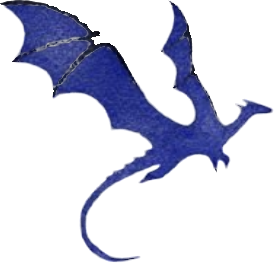
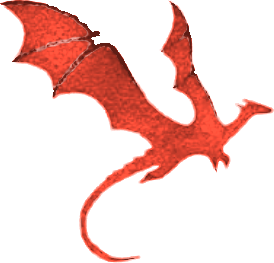
About timeline: the dragon in the site's red

Changed region(s): [[0.0, 0.0, 1.0, 1.0]]

diff --git a/about.html b/about.html
@@ -70,7 +70,7 @@
   @keyframes tl-glide { 50% { transform: translate(3px, -5px) rotate(-3deg); } }
   .tl-item { position: absolute; width: 230px; animation: tl-in .6s ease backwards; }
   .tl-when { display: block; font: 500 11px/1.2 "Geist", sans-serif; letter-spacing: .1em; text-transform: uppercase; color: #6E6879; }
-  .tl-item.is-now .tl-when { color: #3a3fa6; }   /* the dragon's blue */
+  .tl-item.is-now .tl-when { color: #d2412f; }
   .tl-what { display: block; margin-top: 6px; font: 500 16px/1.3 "Geist", sans-serif; color: #141414; }
   .tl-more { display: block; margin-top: 3px; white-space: nowrap; font: 300 13.5px/1.4 "Geist", sans-serif; color: #4f4b57; }
   .tl-note { display: block; margin-top: 6px; font: 15px/1.2 "Grape Nuts", cursive; color: #6E6879; }
@@ -232,7 +232,7 @@
         <path class="tl-path tl-past" pathLength="1" d="M70 512 C160 512 230 496 330 412 S560 190 690 172"/>
         <path class="tl-path tl-next" d="M690 172 S880 158 990 258 S1180 430 1290 446"/>
         <circle class="tl-dot" cx="70" cy="512" r="7"/>
-        <image class="tl-dragon" href="assets/about/dragon.png" x="652" y="134" width="78" height="75"/>
+        <image class="tl-dragon" href="assets/about/dragon.png?v=2" x="652" y="134" width="78" height="75"/>
         <circle class="tl-dot is-next" cx="1290" cy="446" r="7"/>
       </svg>
       <li class="tl-item" style="left:56px;top:536px;animation-delay:.4s">
